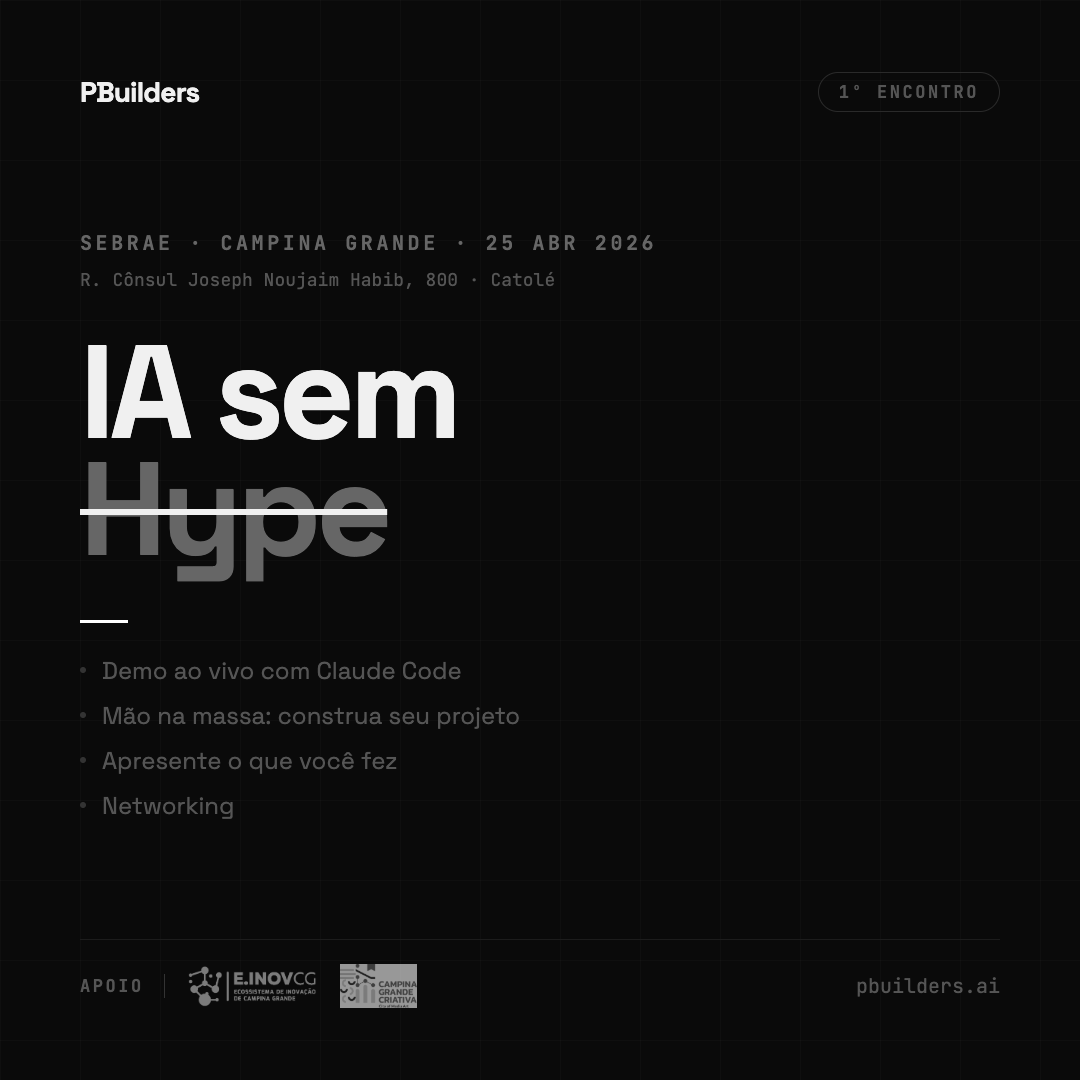
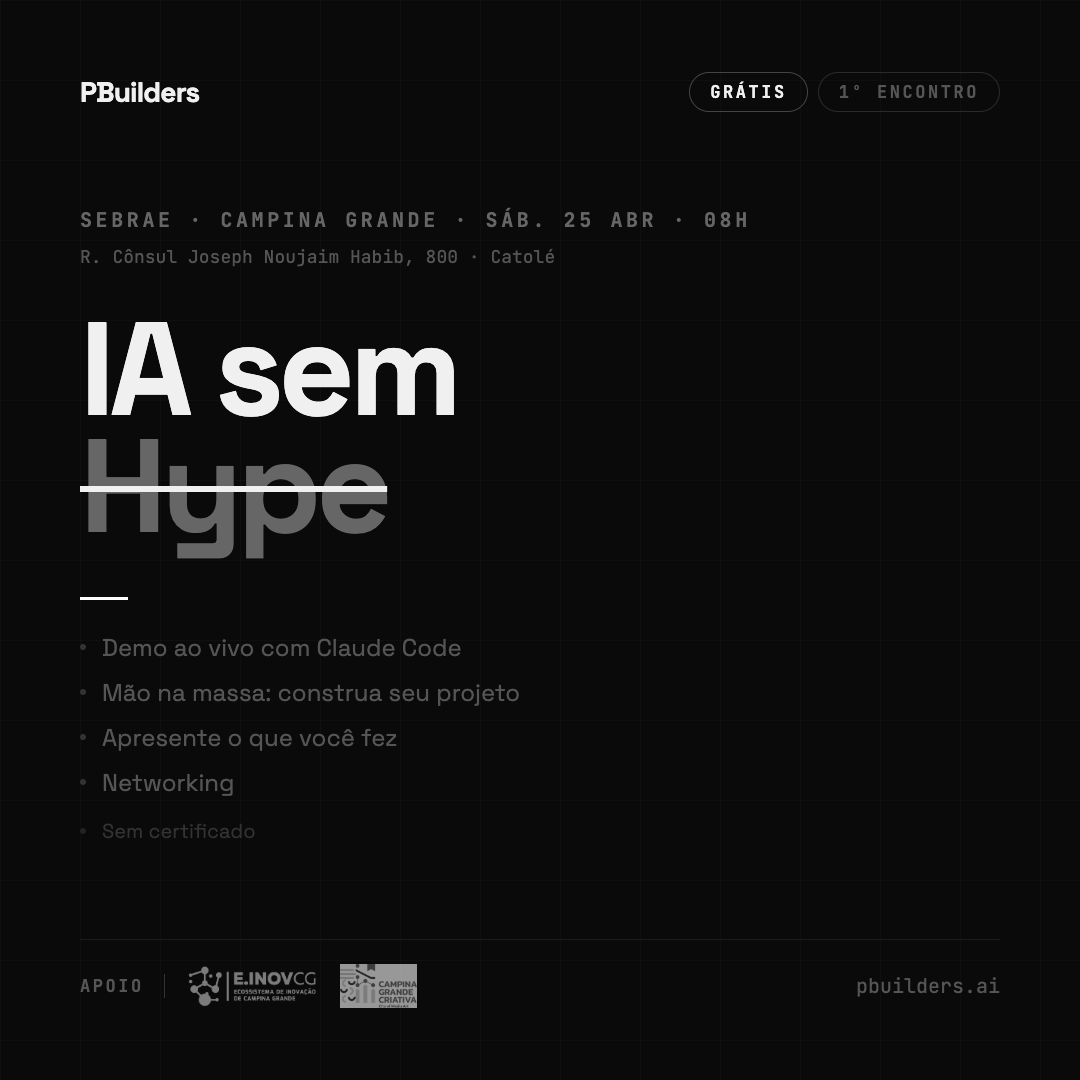
capa: adicionar Grátis, horário (08h sábado) e sem certificado

diff --git a/eventos/ia-sem-hype/midia/capa-sympla.html b/eventos/ia-sem-hype/midia/capa-sympla.html
@@ -55,6 +55,11 @@
       letter-spacing: -0.03em;
     }
 
+    .tags {
+      display: flex;
+      gap: 10px;
+    }
+
     .tag {
       font-family: 'JetBrains Mono', monospace;
       font-size: 17px;
@@ -65,6 +70,11 @@
       border: 1px solid #2A2A2A;
       padding: 8px 20px;
       border-radius: 999px;
+    }
+
+    .tag.free {
+      color: #F0F0F0;
+      border-color: #444;
     }
 
     .body {
@@ -204,7 +214,10 @@
 
     <div class="header">
       <div class="logo-pb">PBuilders</div>
-      <div class="tag">1º Encontro</div>
+      <div class="tags">
+        <div class="tag free">Grátis</div>
+        <div class="tag">1º Encontro</div>
+      </div>
     </div>
 
     <div class="body">
@@ -213,7 +226,7 @@
       </div>
       <div class="right">
         <div class="info">
-          <div class="eyebrow">Sebrae · Campina Grande · 25 abr 2026</div>
+          <div class="eyebrow">Sebrae · Campina Grande · sáb. 25 abr · 08h</div>
           <div class="address">R. Cônsul Joseph Noujaim Habib, 800 · Catolé</div>
         </div>
         <div class="divider"></div>
@@ -222,6 +235,7 @@
           <div class="topic"><span class="topic-dot"></span>Mão na massa: construa seu projeto</div>
           <div class="topic"><span class="topic-dot"></span>Apresente o que você fez</div>
           <div class="topic"><span class="topic-dot"></span>Networking</div>
+          <div class="topic" style="margin-top:4px;color:#333;font-size:19px;"><span class="topic-dot" style="background:#222;"></span>Sem certificado</div>
         </div>
       </div>
     </div>

diff --git a/eventos/ia-sem-hype/midia/capa.html b/eventos/ia-sem-hype/midia/capa.html
@@ -55,6 +55,11 @@
       letter-spacing: -0.03em;
     }
 
+    .tags {
+      display: flex;
+      gap: 10px;
+    }
+
     .tag {
       font-family: 'JetBrains Mono', monospace;
       font-size: 17px;
@@ -65,6 +70,11 @@
       border: 1px solid #2A2A2A;
       padding: 8px 20px;
       border-radius: 999px;
+    }
+
+    .tag.free {
+      color: #F0F0F0;
+      border-color: #444;
     }
 
     .body {
@@ -190,11 +200,14 @@
 
     <div class="header">
       <div class="logo-pb">PBuilders</div>
-      <div class="tag">1º Encontro</div>
+      <div class="tags">
+        <div class="tag free">Grátis</div>
+        <div class="tag">1º Encontro</div>
+      </div>
     </div>
 
     <div class="body">
-      <div class="eyebrow">Sebrae · Campina Grande · 25 abr 2026</div>
+      <div class="eyebrow">Sebrae · Campina Grande · sáb. 25 abr · 08h</div>
       <div class="address">R. Cônsul Joseph Noujaim Habib, 800 · Catolé</div>
       <div class="headline">
         IA sem<br><span class="hype">Hype</span>
@@ -205,6 +218,7 @@
         <div class="topic"><span class="topic-dot"></span>Mão na massa: construa seu projeto</div>
         <div class="topic"><span class="topic-dot"></span>Apresente o que você fez</div>
         <div class="topic"><span class="topic-dot"></span>Networking</div>
+        <div class="topic" style="margin-top:6px;color:#333;font-size:20px;"><span class="topic-dot" style="background:#222;"></span>Sem certificado</div>
       </div>
     </div>
 
